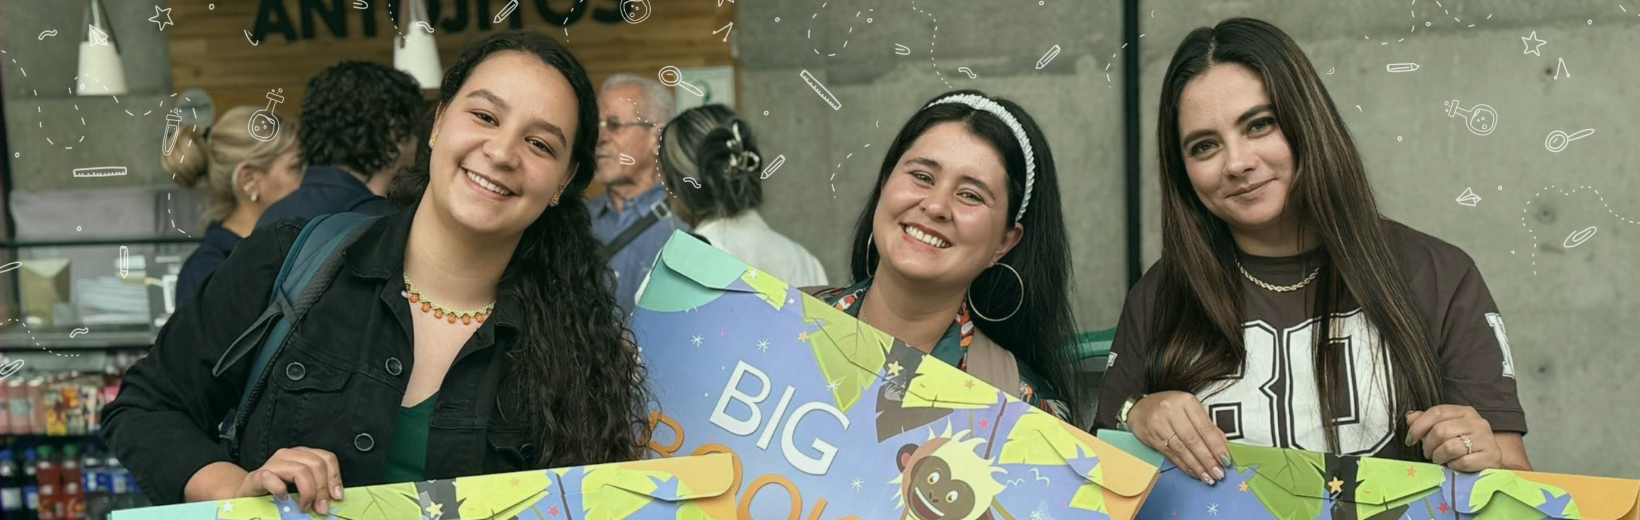
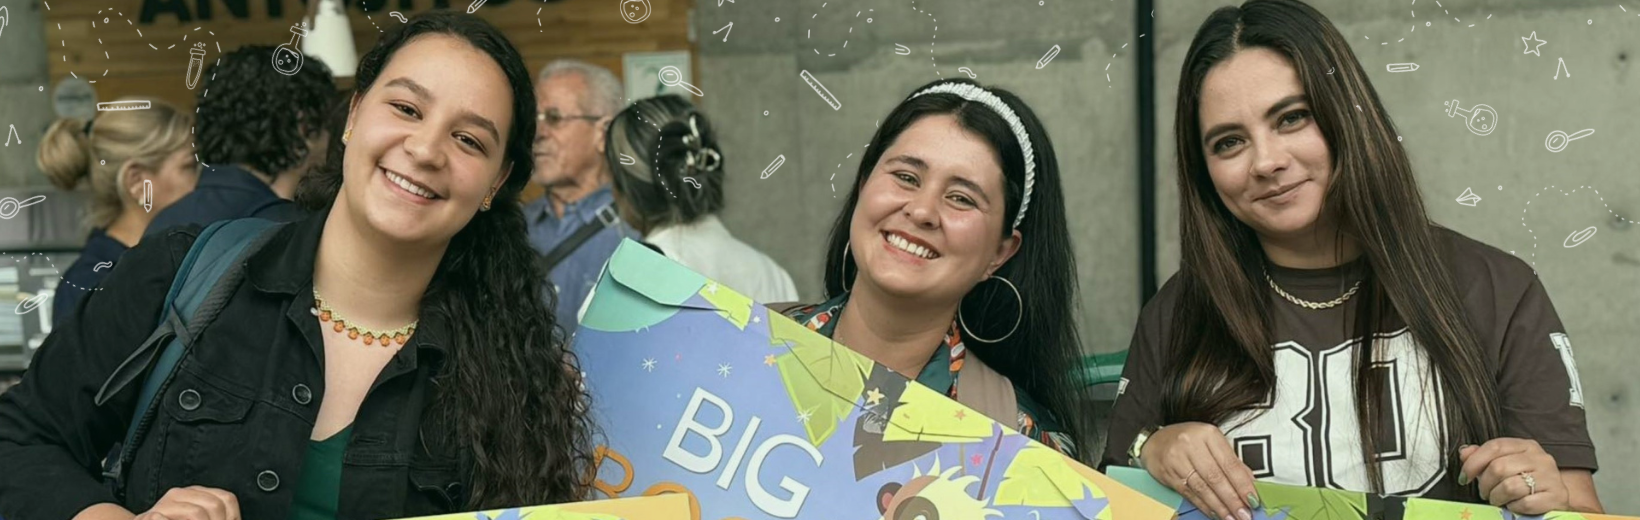
Noticias

diff --git a/index.html b/index.html
@@ -71,7 +71,7 @@
                 <img src="img/slides/fot_8.png" alt="" />
                 <div class="flex-caption">
                     <div style="font-family:'Prompt',sans-serif;"></div>
-                    <h3><span style="color:#3AF9A2;">92.835</span> <span style="color:#f8faf9;">se benefician este año</span></h3>
+                    <h3><span style="color:#3AF9A2;">92.835</span> <span style="color:#f8faf9;">se beneficiarán</span></h3>
 					          <p>116 municipios · Transición, primero y segundo grado</p> 
                 </div>
               </li>
@@ -256,7 +256,148 @@
   </div>
 </div>
 </div>
- 
+
+</section>
+	<div class="testimonial-area">
+    <div class="testimonial-solid">
+        <div class="container"> 
+            <div id="carousel-example-generic" class="carousel slide" data-ride="carousel">
+                <ol class="carousel-indicators">
+                    <li data-target="#carousel-example-generic" data-slide-to="0" class="">
+                        <a href="#"></a>
+                    </li>
+                    <li data-target="#carousel-example-generic" data-slide-to="1" class="">
+                        <a href="#"></a>
+                    </li>
+                    <li data-target="#carousel-example-generic" data-slide-to="2" class="active">
+                        <a href="#"></a>
+                    </li>
+                    <li data-target="#carousel-example-generic" data-slide-to="3" class="">
+                        <a href="#"></a>
+                    </li>
+                </ol>
+                <div class="carousel-inner">
+                    <div class="item">
+                        <p>Blanditiis praesentium voluptatum deleniti atque corrupti quos dolores et quas molestias excepturi sint occaecati cupiditate non provident, similique sunt in culpa qui officia deserunt mollitia animi.</p>
+                        <p>
+                            <b>- Mark John -</b>
+                        </p>
+                    </div>
+                    <div class="item">
+                        <p>Blanditiis praesentium voluptatum deleniti atque corrupti quos dolores et quas molestias excepturi sint occaecati cupiditate non provident, similique sunt in culpa qui officia deserunt mollitia animi.</p>
+                        <p>
+                            <b>- Jaison Warner -</b>
+                        </p>
+                    </div>
+                    <div class="item active">
+                        <p>Blanditiis praesentium voluptatum deleniti atque corrupti quos dolores et quas molestias excepturi sint occaecati cupiditate non provident, similique sunt in culpa qui officia deserunt mollitia animi.</p>
+                        <p>
+                            <b>- Tony Antonio -</b>
+                        </p>
+                    </div>
+                    <div class="item">
+                        <p>Blanditiis praesentium voluptatum deleniti atque corrupti quos dolores et quas molestias excepturi sint occaecati cupiditate non provident, similique sunt in culpa qui officia deserunt mollitia animi.</p>
+                        <p>
+                            <b>- Leena Doe -</b>
+                        </p>
+                    </div>
+                </div>
+            </div>
+        </div>
+    </div>
+</div>
+
+
+<section id="noticias" style="position:relative; padding:3rem 0 2rem; overflow:hidden; font-family:'Prompt',sans-serif;">
+  <div class="ns-bg">NOTICIAS</div>
+  <div class="ns-inner">
+
+    <div class="ns-header">
+      <!-- <span class="ns-label">Actualidad</span> -->
+      <div class="ns-arrows">
+        <button class="ns-arr" onclick="moveNoticias(-1)">
+          <svg width="12" height="12" viewBox="0 0 24 24" fill="none" stroke-width="2.5" stroke-linecap="round" stroke-linejoin="round"><polyline points="15 18 9 12 15 6"/></svg>
+        </button>
+        <button class="ns-arr" onclick="moveNoticias(1)">
+          <svg width="12" height="12" viewBox="0 0 24 24" fill="none" stroke-width="2.5" stroke-linecap="round" stroke-linejoin="round"><polyline points="9 18 15 12 9 6"/></svg>
+        </button>
+      </div>
+    </div>
+
+    <div class="ns-wrap" id="nsWrap">
+      <div class="ns-track" id="nsTrack">
+
+        <!-- NOTICIA 1 -->
+        <div class="ns-card">
+          <p class="ns-date">2026</p>
+          <p class="ns-cat">Implementación</p>
+          <p class="ns-title">Gobernación de Antioquia inicia fase de alistamiento de la estrategia ALFA en los 116 municipios</p>
+          <a href="https://www.seduca.gov.co/gobernacion-de-antioquia-inicia-fase-de-alistamiento-de-la-estrategia-alfa-en-los-116-municipios-no-certificados-en-educacion-del-departamento/" target="_blank" class="ns-plus">
+            <svg width="11" height="11" viewBox="0 0 24 24" fill="none" stroke-width="2.5" stroke-linecap="round"><line x1="12" y1="5" x2="12" y2="19"/><line x1="5" y1="12" x2="19" y2="12"/></svg>
+          </a>
+          <!-- IMAGEN 1: cuando tenga la foto, reemplace las 3 líneas del placeholder por:-->
+          <img class="ns-img" src="img/noticias/noticia_1.jpeg" alt="Alistamiento ALFA"> 
+         
+        </div>
+
+        <!-- NOTICIA 2 -->
+        <div class="ns-card">
+          <p class="ns-date">2025</p>
+          <p class="ns-cat">Evaluación</p>
+          <p class="ns-title">Gobernación fortalece diagnóstico de alfabetización con prueba piloto EGRA en San Pedro de Los Milagros</p>
+          <a href="https://www.seduca.gov.co/gobernacion-de-antioquia-fortalece-diagnostico-de-alfabetizacion-inicial-con-prueba-piloto-en-san-pedro-de-los-milagros-y-la-union/" target="_blank" class="ns-plus">
+            <svg width="11" height="11" viewBox="0 0 24 24" fill="none" stroke-width="2.5" stroke-linecap="round"><line x1="12" y1="5" x2="12" y2="19"/><line x1="5" y1="12" x2="19" y2="12"/></svg>
+          </a>
+          <!-- IMAGEN 3: cuando tenga la foto, reemplace las 3 líneas del placeholder por:-->
+          <img class="ns-img" src="img/noticias/noticia_2.jpeg" alt="Prueba piloto EGRA"> 
+    
+        </div>
+
+        <!-- NOTICIA 3 -->
+        <div class="ns-card">
+          <p class="ns-date">2025</p>
+          <p class="ns-cat">Resultados</p>
+          <p class="ns-title">Más de 92 mil estudiantes serán beneficiados con la estrategia de alfabetización inicial en Antioquia</p>
+          <a href="https://www.seduca.gov.co/mas-de-92-mil-estudiantes-seran-beneficiados-con-la-estrategia-de-alfabetizacion-inicial-en-el-departamento/" target="_blank" class="ns-plus">
+            <svg width="11" height="11" viewBox="0 0 24 24" fill="none" stroke-width="2.5" stroke-linecap="round"><line x1="12" y1="5" x2="12" y2="19"/><line x1="5" y1="12" x2="19" y2="12"/></svg>
+          </a>
+          <!-- IMAGEN 4: cuando tenga la foto, reemplace las 3 líneas del placeholder por:-->
+          <img class="ns-img" src="img/noticias/noticia_3.jpeg" alt="92 mil estudiantes"> 
+          <!--<div class="ns-img-ph">
+            <svg width="28" height="28" viewBox="0 0 64 64" fill="none"><rect x="8" y="16" width="48" height="32" rx="3" stroke="#018d38" stroke-width="2"/><circle cx="22" cy="28" r="5" stroke="#5dcaa5" stroke-width="1.5"/><path d="M8 40 L20 30 L30 38 L42 26 L56 38" stroke="#018d38" stroke-width="1.5" stroke-linecap="round" stroke-linejoin="round"/></svg>
+          </div>-->
+        </div>
+
+      </div>
+    </div>
+  </div>
+
+  <script>
+    var nsPos = 0;
+    function getNsVisible() {
+      var w = document.getElementById('nsWrap').offsetWidth;
+      if (w < 480) return 1;
+      if (w < 768) return 2;
+      return 2;
+    }
+    function moveNoticias(dir) {
+      var track = document.getElementById('nsTrack');
+      var wrap = document.getElementById('nsWrap');
+      var visible = getNsVisible();
+      var cardW = wrap.offsetWidth / visible;
+      var max = 4 - visible;
+      nsPos = Math.max(0, Math.min(nsPos + dir, max));
+      track.style.transform = 'translateX(-' + (nsPos * cardW) + 'px)';
+    }
+  </script>
+
+</section> 
+
+
+
+
+
+
 	<section id="content">
 	
 	
@@ -348,55 +489,7 @@
 	
 	</div>
 	
-	</section>
-	<div class="testimonial-area">
-    <div class="testimonial-solid">
-        <div class="container"> 
-            <div id="carousel-example-generic" class="carousel slide" data-ride="carousel">
-                <ol class="carousel-indicators">
-                    <li data-target="#carousel-example-generic" data-slide-to="0" class="">
-                        <a href="#"></a>
-                    </li>
-                    <li data-target="#carousel-example-generic" data-slide-to="1" class="">
-                        <a href="#"></a>
-                    </li>
-                    <li data-target="#carousel-example-generic" data-slide-to="2" class="active">
-                        <a href="#"></a>
-                    </li>
-                    <li data-target="#carousel-example-generic" data-slide-to="3" class="">
-                        <a href="#"></a>
-                    </li>
-                </ol>
-                <div class="carousel-inner">
-                    <div class="item">
-                        <p>Blanditiis praesentium voluptatum deleniti atque corrupti quos dolores et quas molestias excepturi sint occaecati cupiditate non provident, similique sunt in culpa qui officia deserunt mollitia animi.</p>
-                        <p>
-                            <b>- Mark John -</b>
-                        </p>
-                    </div>
-                    <div class="item">
-                        <p>Blanditiis praesentium voluptatum deleniti atque corrupti quos dolores et quas molestias excepturi sint occaecati cupiditate non provident, similique sunt in culpa qui officia deserunt mollitia animi.</p>
-                        <p>
-                            <b>- Jaison Warner -</b>
-                        </p>
-                    </div>
-                    <div class="item active">
-                        <p>Blanditiis praesentium voluptatum deleniti atque corrupti quos dolores et quas molestias excepturi sint occaecati cupiditate non provident, similique sunt in culpa qui officia deserunt mollitia animi.</p>
-                        <p>
-                            <b>- Tony Antonio -</b>
-                        </p>
-                    </div>
-                    <div class="item">
-                        <p>Blanditiis praesentium voluptatum deleniti atque corrupti quos dolores et quas molestias excepturi sint occaecati cupiditate non provident, similique sunt in culpa qui officia deserunt mollitia animi.</p>
-                        <p>
-                            <b>- Leena Doe -</b>
-                        </p>
-                    </div>
-                </div>
-            </div>
-        </div>
-    </div>
-</div>
+	
 	<footer>
 	<div class="container">
 		<div class="row">

diff --git a/css/style.css b/css/style.css
@@ -1860,4 +1860,51 @@ padding-top: 12px;
 }
 
 }
- 
+    .ns-bg { position:absolute; right:60%; top:25%; transform:translate(-50%, -50%); font-size:100px; font-weight:900; color:rgba(1,141,56,0.3); letter-spacing:-4px; pointer-events:none; line-height:1; white-space:nowrap; z-index:0; }
+    .ns-inner { position:relative; z-index:1; max-width:1140px; margin:0 auto; padding:0 24px; }
+    .ns-header { display:flex; align-items:center; justify-content:space-between; margin-bottom:24px; }
+    .ns-label { font-size:11px; font-weight:700; letter-spacing:0.14em; text-transform:uppercase; color:#018d38; padding-bottom:8px; border-bottom:2px solid #018d38; display:inline-block; font-family:'Prompt',sans-serif; }
+    .ns-arrows { display:flex; gap:8px; }
+    .ns-arr { width:32px; height:32px; border-radius:50%; border:1.5px solid #d6ede2; background:#fff; cursor:pointer; display:flex; align-items:center; justify-content:center; transition:all 0.2s; }
+    .ns-arr:hover { background:#018d38; border-color:#018d38; }
+    .ns-arr:hover svg { stroke:#fff; }
+    .ns-arr svg { stroke:#018d38; transition:stroke 0.2s; }
+    .ns-wrap { overflow:hidden; }
+    .ns-track { display:flex; transition:transform 0.4s cubic-bezier(.4,0,.2,1); }
+    .ns-card { flex-shrink:0; width:50%; padding:0 16px 0 16px; border-right:1px solid #e0ede6; box-sizing:border-box; }
+    .ns-card:last-child { border-right:none; }
+    .ns-date { font-size:11px; font-weight:600; color:#0b3d25; margin:0 0 5px; font-family:'Prompt',sans-serif; text-align: right; }
+    .ns-cat { font-size:11px; font-weight:600; color:#018d38; margin:0 0 7px; font-family:'Prompt',sans-serif; text-align: right;}
+    .ns-title { font-size:12px; color:#0b3d25; font-weight:500; line-height:1.5; margin:0 0 10px; font-family:'Prompt',sans-serif;text-align: right; }
+    .ns-plus { width:22px; height:22px; border-radius:50%; border:1.5px solid #018d38; display:inline-flex; align-items:center; justify-content:center; margin-bottom:12px; text-decoration:none; }
+    .ns-plus svg { stroke:#018d38; }
+    .ns-img-ph { width:100%; height:140px; background:#e8f5ee; border-radius:4px; display:flex; align-items:center; justify-content:center; }
+    .ns-img { width:100%; height:140px; object-fit:cover; border-radius:4px; display:block; }
+
+    @media (max-width: 768px) {
+      .ns-card { width:50%; }
+    }
+    @media (max-width: 480px) {
+      .ns-card { width:100%; padding-right:0; border-right:none; border-bottom:1px solid #e0ede6; padding-bottom:20px; margin-bottom:20px; }
+      .ns-bg { font-size:60px; }
+    }
+
+.ns-header {
+    display:flex;
+    align-items:center;
+    justify-content:flex-end;
+    margin-bottom:16px;
+}
+
+.featured_content {
+    background: #ffffff;
+    
+}
+
+#noticias {
+    background: #ffffff;
+    border-top: 1px solid #e8f0eb;
+}
+
+.ns-cat { text-align:right; color:#018d38 !important; }
+.ns-date { text-align:right; color:#0b3d25 !important; }
